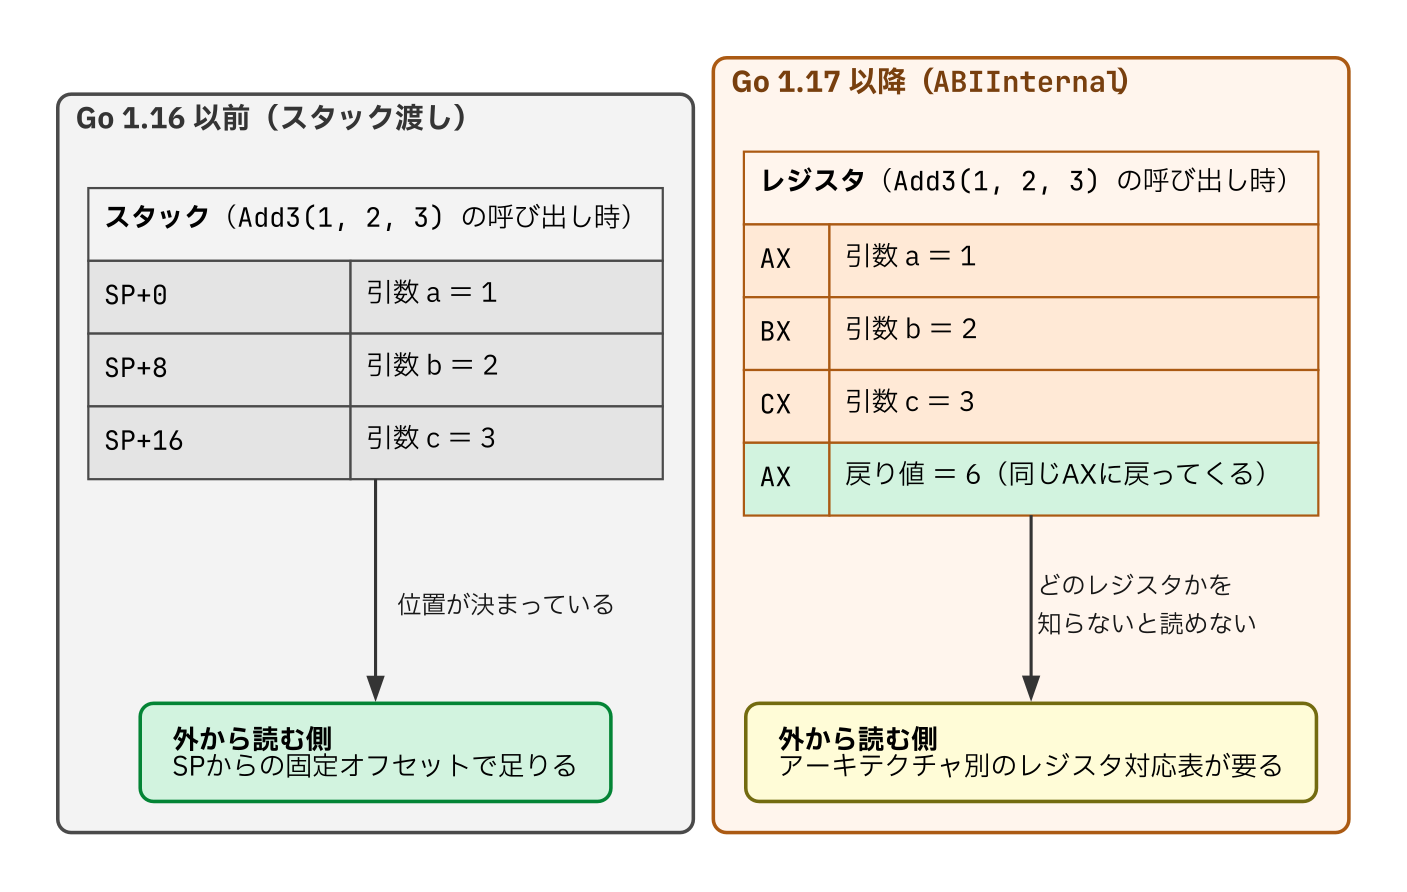
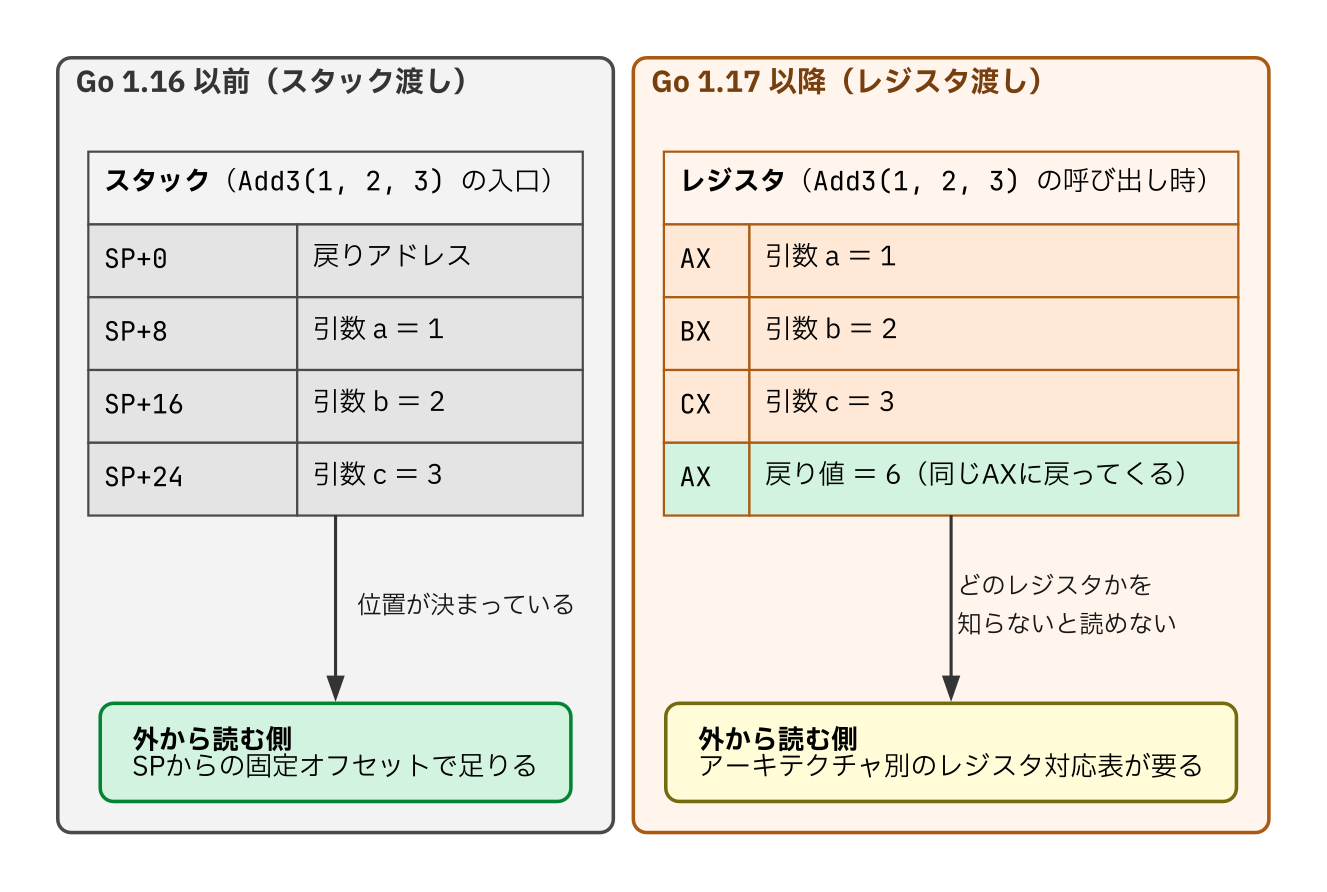
fix(go-ebpf-primer): traceparent重複時の挙動、変換の参照先、ABI図のSP基準を訂正する
- S01: 同名ヘッダの結合はRFC 9110で許容であり必須ではない。Goのnet/httpは
  2値を保持しHeader.Getが最初を返すため、重複だけでは無効化されない
- C01: VA→ファイル内オフセット変換の参照先を12章から10章へ
- C02: 15章まとめ表のABIInternal（Go 1.17〜）をレジスタABIへ。図の見出しも同様
- C05: abi-shift図の左表を関数入口基準に統一し戻りアドレス行を追加（a/b/cを8/16/24へ）

Changed region(s): [[0.0309, 0.0605, 0.9578, 0.9383], [0.7106, 0.5751, 0.896, 0.787], [0.9269, 0.0605, 0.9578, 0.0908]]

diff --git a/books/go-ebpf-primer/55-hurdle4_propagation.md b/books/go-ebpf-primer/55-hurdle4_propagation.md
@@ -348,7 +348,7 @@ kernel lockdownが有効な環境やSecure Bootの下では、このヘルパー
 
 送信されるバイト列に後から差し込むこの経路も、狙いを外せば観測対象を壊します。`v0.13.0` は `bpf/tpinjector/` のメモリ安全性の不具合を3件修正しました。前のリクエストがバッファに残したデータに対して注入が走り、TLSのストリームの途中に `traceparent` を書き込んで接続をリセットしてしまうもの（[#3257](https://github.com/open-telemetry/opentelemetry-ebpf-instrumentation/pull/3257)）、メッセージバッファの読み取りがマップされた範囲を超え、取得に失敗したときに無関係なカーネルメモリをスパンの中身として持ち出してしまうもの（[#3298](https://github.com/open-telemetry/opentelemetry-ebpf-instrumentation/pull/3298)）、そして充填に失敗したバッファを無効化せず、前のメッセージを現在のものと取り違えるもの（[#3304](https://github.com/open-telemetry/opentelemetry-ebpf-instrumentation/pull/3304)）です。アプリのメモリに触らない経路であっても、送信の途中に割り込む以上、正確さの要求は変わりません。
 
-1つ目が動いたときは、同じヘッダが二重に入らないよう、2つ目が対象を飛ばすようにマップの登録を消しています。同じ名前のヘッダが2つあると、受信側ではHTTPの規則に従って `traceparent: A,B` という1つの値に結合され、W3C Trace Contextが定める形式に合わなくなります。仕様は形式を解釈できなかった受信側にトレースを作り直すことを求めているので、二重注入は「余分」ではなく「破壊」です。2つの経路が同じ送信に対して走らないための調停が必要になります。
+1つ目が動いたときは、同じヘッダが二重に入らないよう、2つ目が対象を飛ばすようにマップの登録を消しています。同じ名前のヘッダが2つ届いたとき、受信側がどう扱うかは実装に委ねられています。HTTPの規則はカンマで1つの値に結合することを許していますが、義務ではありません。Goの `net/http` は2つの値を保ったまま `Header.Get` で最初の1つを返すので、この場合は先に書かれたほうが採用されます。一方、結合されて `traceparent: A,B` という値になると、W3C Trace Contextの定める形式に合わなくなり、受信側はトレースを作り直します。つまり二重注入は「余分」では済まず、どちらの文脈が下流へ伝わるかが受信側の実装次第になります。だからOBIは、2つの経路が同じ送信に対して走らないよう調停しています。
 
 なお、コンテキスト伝搬はデフォルトでは無効です。`OTEL_EBPF_BPF_CONTEXT_PROPAGATION` のデフォルト値は `disabled` で、`headers`、`tcp`、`all` から明示的に選びます。プロセスのメモリを書き換える、あるいは送信されるバイト列を書き換える機能である以上、有効化は利用者の判断に委ねられています。
 

diff --git a/books/go-ebpf-primer/30-ebpf.md b/books/go-ebpf-primer/30-ebpf.md
@@ -85,7 +85,7 @@ up, err := exe.Uprobe("", objs.OnReturn, &link.UprobeOptions{
 })
 ```
 
-シンボル名を空文字列にして `Address` を渡すこの形が、難所1の回避策そのものになります。渡す値には注意が要ります。uprobeはそもそも「ファイルの先頭から何バイト目か」で登録する仕組みなので、ここに書くのも仮想アドレスではなくファイル内のオフセットです。シンボル名を渡した場合はライブラリが変換してくれますが、`Address` を直に渡すときは自分で `readelf -lW` の `p_vaddr` と `p_offset` を見て、`オフセット = 命令の仮想アドレス - p_vaddr + p_offset` を計算します。逆アセンブルに出る `0x49e290` をそのまま渡すと、意図した命令には置かれません。OBIがこの変換をどこで行っているかは12章で見ます。なお、ここに挙げた2つのコードは動かすのにroot権限とLinuxが要るので、読むだけでかまいません。手元で実行して確かめるのは、これ以降に出てくるGoのサンプルのほうです。
+シンボル名を空文字列にして `Address` を渡すこの形が、難所1の回避策そのものになります。渡す値には注意が要ります。uprobeはそもそも「ファイルの先頭から何バイト目か」で登録する仕組みなので、ここに書くのも仮想アドレスではなくファイル内のオフセットです。シンボル名を渡した場合はライブラリが変換してくれますが、`Address` を直に渡すときは自分で `readelf -lW` の `p_vaddr` と `p_offset` を見て、`オフセット = 命令の仮想アドレス - p_vaddr + p_offset` を計算します。逆アセンブルに出る `0x49e290` をそのまま渡すと、意図した命令には置かれません。OBIがこの変換をどこで行っているかは10章で見ます。なお、ここに挙げた2つのコードは動かすのにroot権限とLinuxが要るので、読むだけでかまいません。手元で実行して確かめるのは、これ以降に出てくるGoのサンプルのほうです。
 
 ![eBPFの全体像](/images/20260911-ebpf-overview.png)
 *図4: 実線の矢印は処理の流れ、破線は補助的な流れ（uprobeの設置とマップの読み出し）を表す。ローダーがeBPFプログラムをカーネルへ載せ、検証器を通ったものだけが常駐する。uprobeを置いた命令アドレスに到達すると発火し、イベントをまたぐ状態はマップを介してユーザー空間から読み出せる。*

diff --git a/books/go-ebpf-primer/45-hurdle2_abi.md b/books/go-ebpf-primer/45-hurdle2_abi.md
@@ -29,7 +29,7 @@ RAX, RBX, RCX, RDI, RSI, R8, R9, R10, R11
 [^regabi-arch]: Go 1.17でレジスタ渡しに切り替わったのはamd64だけです。arm64はGo 1.18、riscv64はGo 1.19と、アーキテクチャごとに順次移行しました。本書の記述はamd64を前提にしています。
 
 ![Go 1.17 の呼び出し規約の転換](/images/20260911-abi-shift.png)
-*図1: 矢印は、引数の置き場所から、それを外から読む側へ向かう（何が手がかりになるか）。引数の受け渡しがスタックからレジスタに変わった。呼び出しは速くなり、外から引数を読む側はアーキテクチャ別のレジスタ対応表を持つことになった。*
+*図1: 矢印は、引数の置き場所から、それを外から読む側へ向かう（何が手がかりになるか）。引数の受け渡しがスタックからレジスタに変わった。左のスタックは関数の入口で見たもので、`CALL` が積んだ戻りアドレスの先に引数が並ぶ。呼び出しは速くなり、外から引数を読む側はアーキテクチャ別のレジスタ対応表を持つことになった。*
 
 ## レジスタに乗る引数
 

diff --git a/books/go-ebpf-primer/65-conclusion.md b/books/go-ebpf-primer/65-conclusion.md
@@ -205,7 +205,7 @@ $ ../../../../otelc go build -o client .
 | 難所 | 問題になるGoの性質 | OBIの対処 |
 |---|---|---|
 | 1. uretprobeが使えない | 可動スタック | 全 `RET` 命令への通常uprobe |
-| 2. レジスタABI | ABIInternal（引数の受け渡し規約、Go 1.17〜） | アーキテクチャ別のレジスタ対応表。goroutineは `g` のアドレスで識別し、中身は読まない |
+| 2. レジスタABI | amd64のレジスタABI（Go 1.17〜） | アーキテクチャ別のレジスタ対応表。goroutineは `g` のアドレスで識別し、中身は読まない |
 | 3. バージョン依存オフセット | 非公開なライブラリとランタイムの内部構造 | バイナリのDWARFを読み、欠けた分だけ自動更新される `offsets.json` で補う |
 | 4. コンテキスト伝搬 | goroutine（≠スレッド） | `newproc1` での親子追跡（6段まで）と、`bufio.Writer` への直接書き込みまたは `sk_msg` |
 
